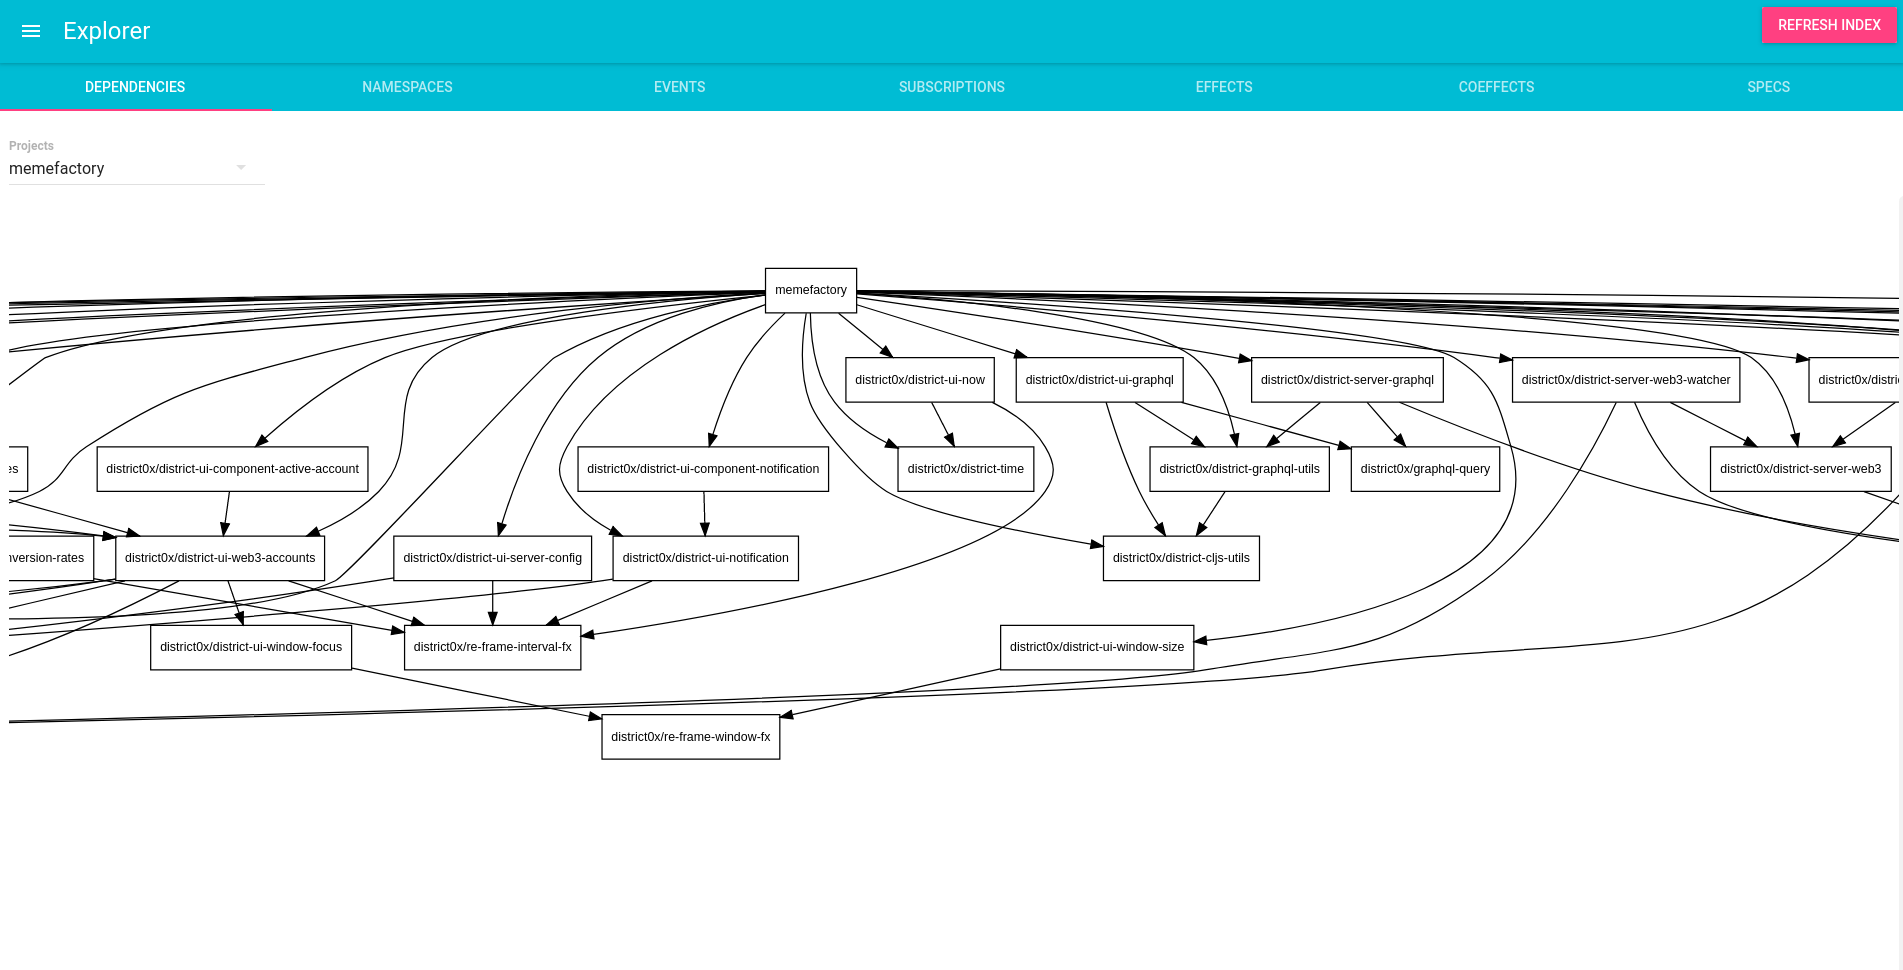
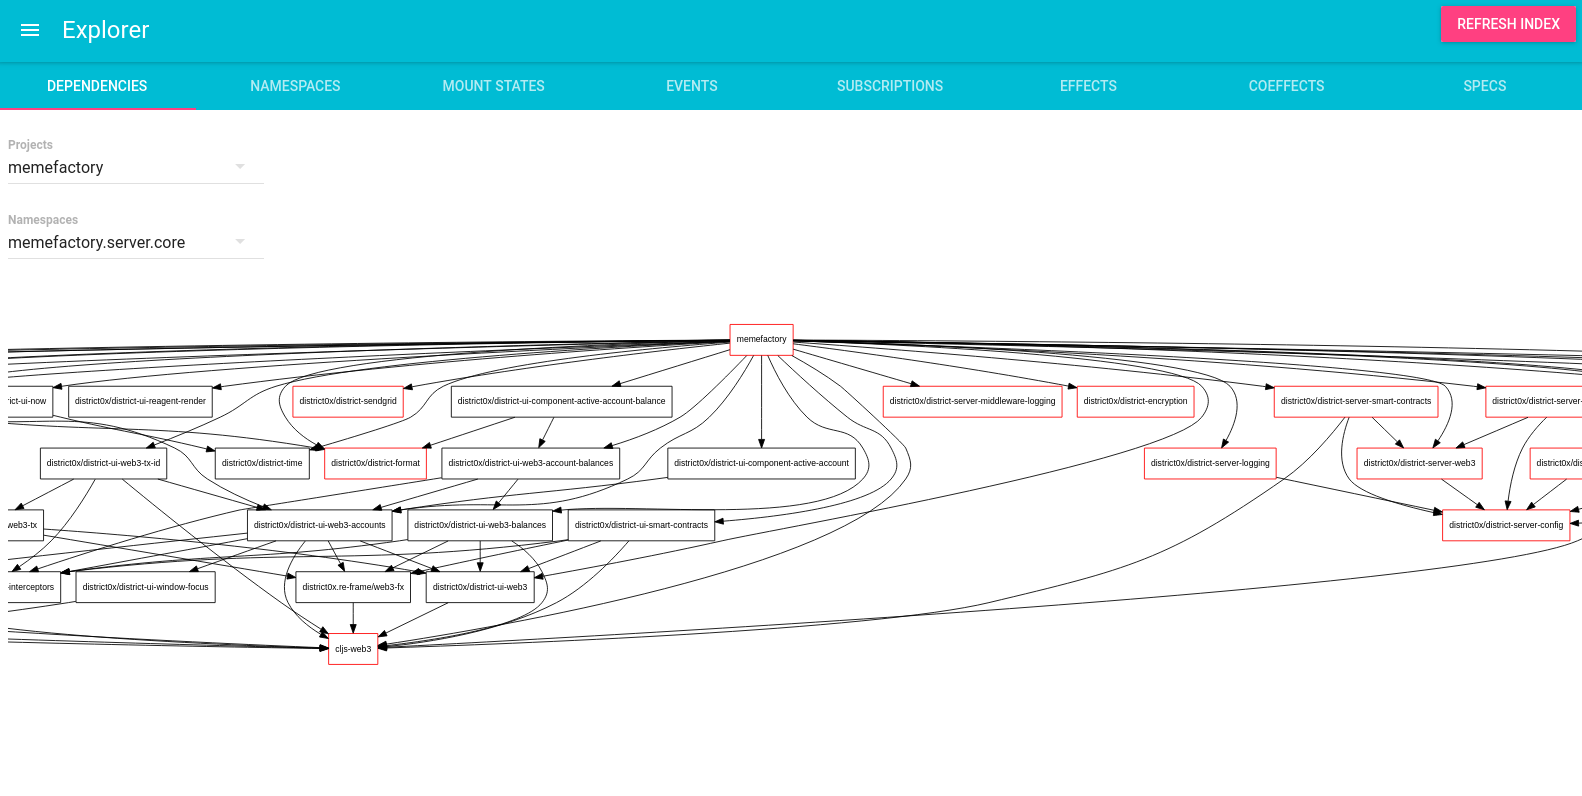
Improving documentation

diff --git a/README.md b/README.md
@@ -2,14 +2,34 @@
 
 [Re-mount](https://github.com/district0x/d0x-INFRA/blob/master/re-mount.md) module browser.
 
+Static clojurescipt source code analyzer.
 Index and explore various aspects of your clojurescript projects.
 
-### Usage
+### Build
 ```
 lein uberjar
+```
+
+### Usage
+
+If you have a folder under which you clone all your organization's sub projects
+
+```
 java -jar target/re-mount-module-browser.jar /home/user/base-projects-folder
 ```
 and then open http://localhost:3000
+
+Note: You can also run it inside one of the projects folders but you will index much less information.
+
+### Features
+
+- Explore you projects transitive dependencies
+- Understand dependencies needed for a namespace
+- Explore namespace hierarchies
+- Explore mount component hierarchies
+- Explore re-frame events, subs, fxs and cofx of all your projects at once
+- Explore all your projects specs at once
+- Quickly jump into code
 
 ### How does it works?
 
@@ -24,22 +44,46 @@ and then open http://localhost:3000
 
 ### How does it looks?
 
+After indexing finishes, this is the kind of information you can explore :
+
 #### Maven project dependecies
+
+You can select any of the indexed projects and see a graph of a dependency tree starting at
+the selected project.
+
+If you choose a project namespace, you will see painted in red all dependencies required by that namespace. 
+
 <img src="/docs/dependencies.png?raw=true"/>
 
 #### Namespaces and mount state dependencies 
+
+You can select any project and namespace and see the entire namespace dependency tree.
+Red nodes are namespaces containing mount state.
+
 <img src="/docs/namespaces.png?raw=true"/>
 
 #### Mount state dependencies 
+
+Choose any project and namespace to see mount state hierarchy starting on that namespace.
+
 <img src="/docs/mount.png?raw=true"/>
 
 #### Re-frame events, subscriptions, effects and coeffects
+
+You can explore re-frame events, subscriptions, effects and coeffects.
+Each card represents a project, and each line inside is a re-frame feature grouped by ns.
+Click on any item to see the code implementing it.
+
 <img src="/docs/reframe.png?raw=true"/>
 
 #### Specs
+
+Same as with re-frame features you can explore your projects specs.
+
 <img src="/docs/specs.png?raw=true"/>
 
 #### Clicking everywhere takes you to exact file/line
+
 <img src="/docs/code.png?raw=true"/>
 
 ### Similar apps
@@ -47,6 +91,9 @@ and then open http://localhost:3000
 For similar approach but around smart contracts analisys check [Smart View](https://github.com/jpmonettas/smart-view)
 
 ### Roadmap
+- Support clojure files
+- Support boot projects
+- Support deps.clj projects
 - Index npm dependencies
 - Index more code facts to be able to create lint tools
 
